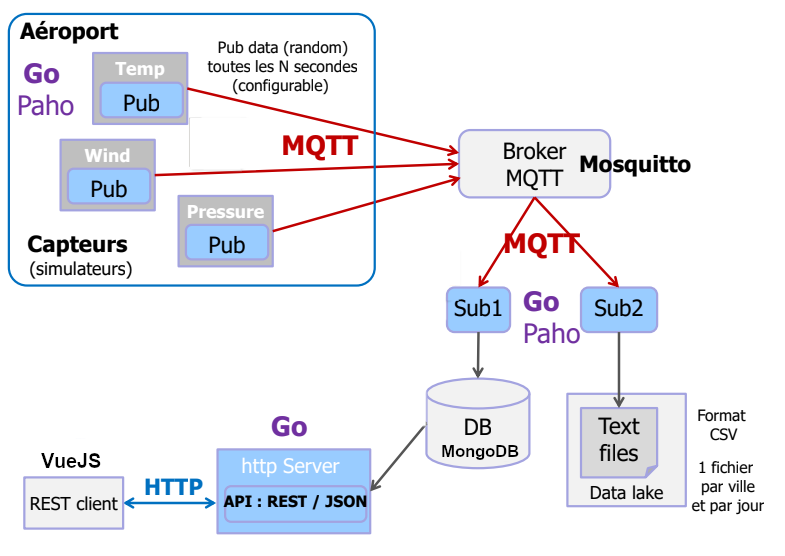
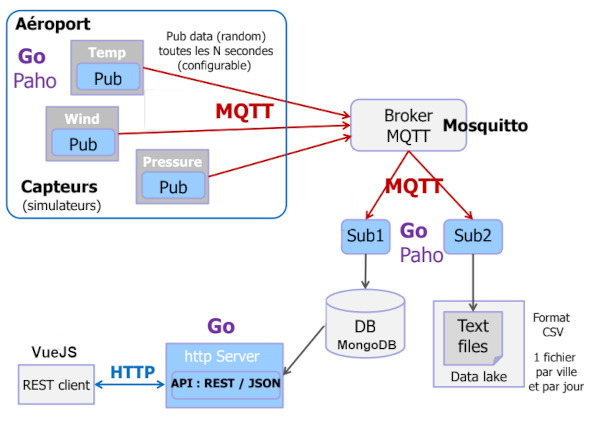
amelioration documentation

diff --git a/broker/README.md b/broker/README.md
@@ -1,34 +1,44 @@
-# Projet Aéroport - Broker
+# Projet Aéroport - Publishers / Subscribers ✈
 
-Broker permettant de faire la liaison entre les capteurs et la base de données
+Gestion des capteurs et des enregistrement en base de données et fichiers csv
 
-## Installation
+## Installation avec Docker (recommandée) 🐳
 
-Nécessite MongoDB et Mosquitto
+[Voir la documentation générale](../README.md)
 
-Pour lancer MongoDB et Mosquitto via docker :
-```shell
-docker-compose up -d
-```
+## Installation sans Docker :warning:
 
-- MongoDB : [localhost:27017](localhost:27017)
-- Mosquitto : [localhost:52883](localhost:52883)
-
-Lancer l'application avec les capteurs de test :
-```shell
-./docker.sh
-```
-Lancer un capteur (type possible : temperature / wind / pressure) : 
-```shell
-./brokerApp -type=pressure -sensorId=capteur4 -airportId=NTEs
-```
-Lancer un subscriber (type possible : csv / db) :
-```shell
-./brokerApp -mode=subscriber -subName=colorgitano -subType=csv
-```
-
-### Autres commandes
-Compiler l'application
+1. Installer MongoDB sur votre machine
+2. Installer Mosquitto sur votre machine
+3. Modifier la configuration des publishers et subscribers si les ports de MongoDB et Mosquitto sont différents (optionnel)
+4. Compiler le code des publishers et subscribers (optionnel)
 ```shell
 go build
+```
+5. Lancer les publishers et subscribers
+
+```shell
+# Capteur de temperature
+./brokerApp -type=temperature -sensorId=capteur1 -airportId=NTEs
+
+# Capteur de pression
+./brokerApp -type=pressure -sensorId=capteur2 -airportId=NTEs
+
+# Capteur de vent
+./brokerApp -type=wind -sensorId=capteur3 -airportId=NTEs
+
+# Enregistreur en base de données
+./brokerApp -mode=subscriber -subName=db -subType=db
+
+# Enregistreur dans un fichier
+./brokerApp -mode=subscriber -subName=csv -subType=csv
+```
+:warning: Utiliser un id (sensorId ou subName) différent à chaque fois 
+
+## Script de test
+Un script de test composé de 10 capteurs avec 3 aéroports, un enregistrement en base de données et dans un fichier est disponible
+
+```shell
+# Pour lancer le script de test
+./docker.sh
 ```

diff --git a/client/README.md b/client/README.md
@@ -1,11 +1,24 @@
-# Vue 3 + Typescript + Vite
+# Projet Aéroport - Client ✈
 
-This template should help get you started developing with Vue 3 and Typescript in Vite. The template uses Vue 3 `<script setup>` SFCs, check out the [script setup docs](https://v3.vuejs.org/api/sfc-script-setup.html#sfc-script-setup) to learn more.
+Interface pour visualier les informations sur les aéroports avec les mesures des différents capteurs
 
-## Recommended IDE Setup
+## Installation avec Docker (recommandée) 🐳
 
-- [VSCode](https://code.visualstudio.com/) + [Volar](https://marketplace.visualstudio.com/items?itemName=johnsoncodehk.volar)
+[Voir la documentation générale](../README.md)
 
-## Type Support For `.vue` Imports in TS
+## Installation sans Docker :warning:
 
-Since TypeScript cannot handle type information for `.vue` imports, they are shimmed to be a generic Vue component type by default. In most cases this is fine if you don't really care about component prop types outside of templates. However, if you wish to get actual prop types in `.vue` imports (for example to get props validation when using manual `h(...)` calls), you can enable Volar's `.vue` type support plugin by running `Volar: Switch TS Plugin on/off` from VSCode command palette.
+1. Installer MongoDB sur votre machine
+2. Lancer l'API : [voir documentation](../api/README.md)
+3. Installer les dépendances du client
+```shell
+# Depuis le dossier client
+npm install
+```
+3. Lancer le client
+```shell
+# Depuis le dossier client
+npm run dev
+```
+
+- L'interface est accessible à l'adresse : [localhost:3000](localhost:3000)

diff --git a/api/README.md b/api/README.md
@@ -1,19 +1,25 @@
-# Projet Aéroport - API
+# Projet Aéroport - API ✈
 
-API pour récupérer des informations sur les aéroports
+API pour récupérer des informations sur les aéroports avec les mesures des différents capteurs
 
-## Lancement
+## Installation avec Docker (recommandée) 🐳
 
-Lancer l'API :
+[Voir la documentation générale](../README.md)
+
+## Installation sans Docker :warning:
+
+1. Installer MongoDB sur votre machine
+2. Lancer le script des publishers et subscribers : [voir documentation](../broker/README.md)
+3. Modifier la configuration de l'API si le port de MongoDB est différent (optionnel)
+7. Lancer l'API
 ```shell
 go run main.go
 ```
 
-
-- L'API est accessible : [localhost:3333](localhost:3333)
+- L'API est accessible à l'adresse : [localhost:3333](localhost:3333)
 - La documentation se situe à l'adresse : [localhost:3333](localhost:3333)
 
-
+## Autres commandes
 Pour générer et mettre à jour la documentation Swagger :
 ```shell
 swag init

diff --git a/README.md b/README.md
@@ -6,6 +6,8 @@ Projet réalisé dans le cadre du module "Infrastructures d'intégration" de l'I
 
 Créé par Théo LETOUZÉ, Clément NICOLAS, Loïs GIGAUD, Julien RAQUOIS
 
+![Application aéroport](docs/front.png)
+
 ## Contenu 📋
 
 - 3 publishers en Go envoyant les données des capteurs
@@ -15,6 +17,8 @@ Créé par Théo LETOUZÉ, Clément NICOLAS, Loïs GIGAUD, Julien RAQUOIS
 - Un client REST en VueJS (v3)
 
 ## Architecture 
+
+![Architecture de l'application](docs/architecture.png)
 
 ## Installation avec Docker (recommandée) 🐳
 
